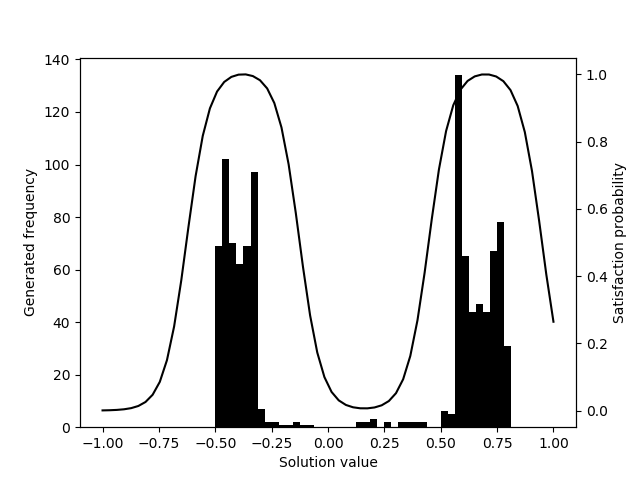
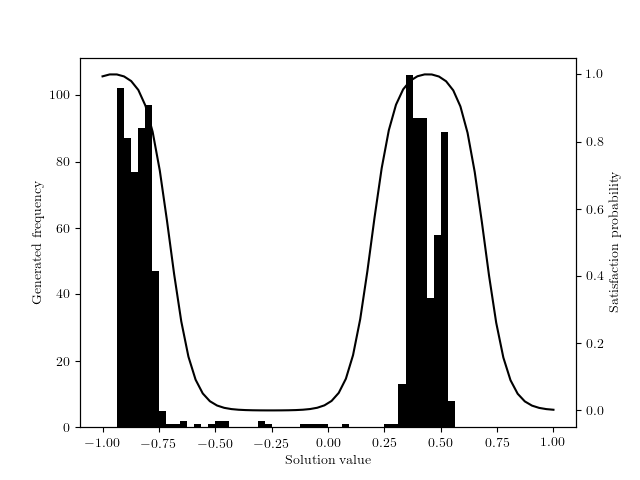
Change font in figures for verifying parametric generators

diff --git a/reports/draft/chapters/results/main.tex b/reports/draft/chapters/results/main.tex
@@ -299,11 +299,8 @@ The remainder of this chapter will examine that architecture's performance in mo
 \subsection{Expected satisfaction probability}
 \subsection{Relative density of true solutions}
 \subsection{Effect of recall weight}
-\subsection{Multimodal solution sets}
 \subsection{Equality constraints}
 
-\section{Latent space properties}
-
-\section{Application to complex problems}
+\section{Latent space visualisation}
 
 \end{document}

diff --git a/experiments/verifyparametric.py b/experiments/verifyparametric.py
@@ -135,6 +135,9 @@ def run():
     Attempt to train a parametric generate to sample from the solution space
     of an objective function with a constraint argument.
     """
+    rc("font", **{"family": "serif", "serif": ["Computer Modern"]})
+    rc("text", usetex=True)
+
     r = "leaky-relu"
     l = (32, r)
 
